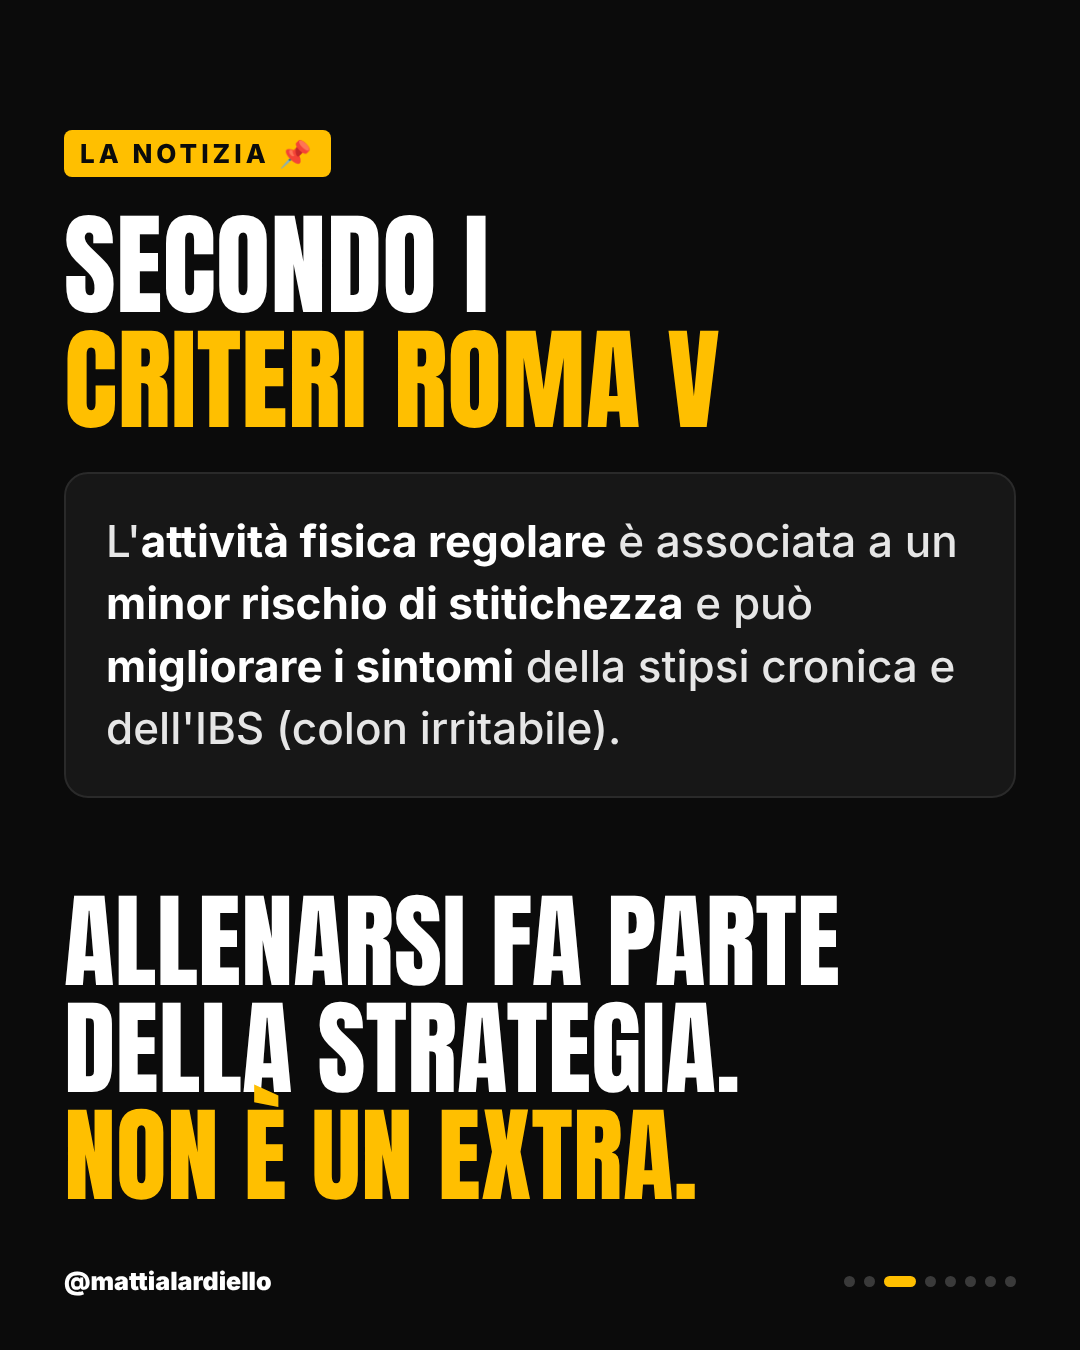
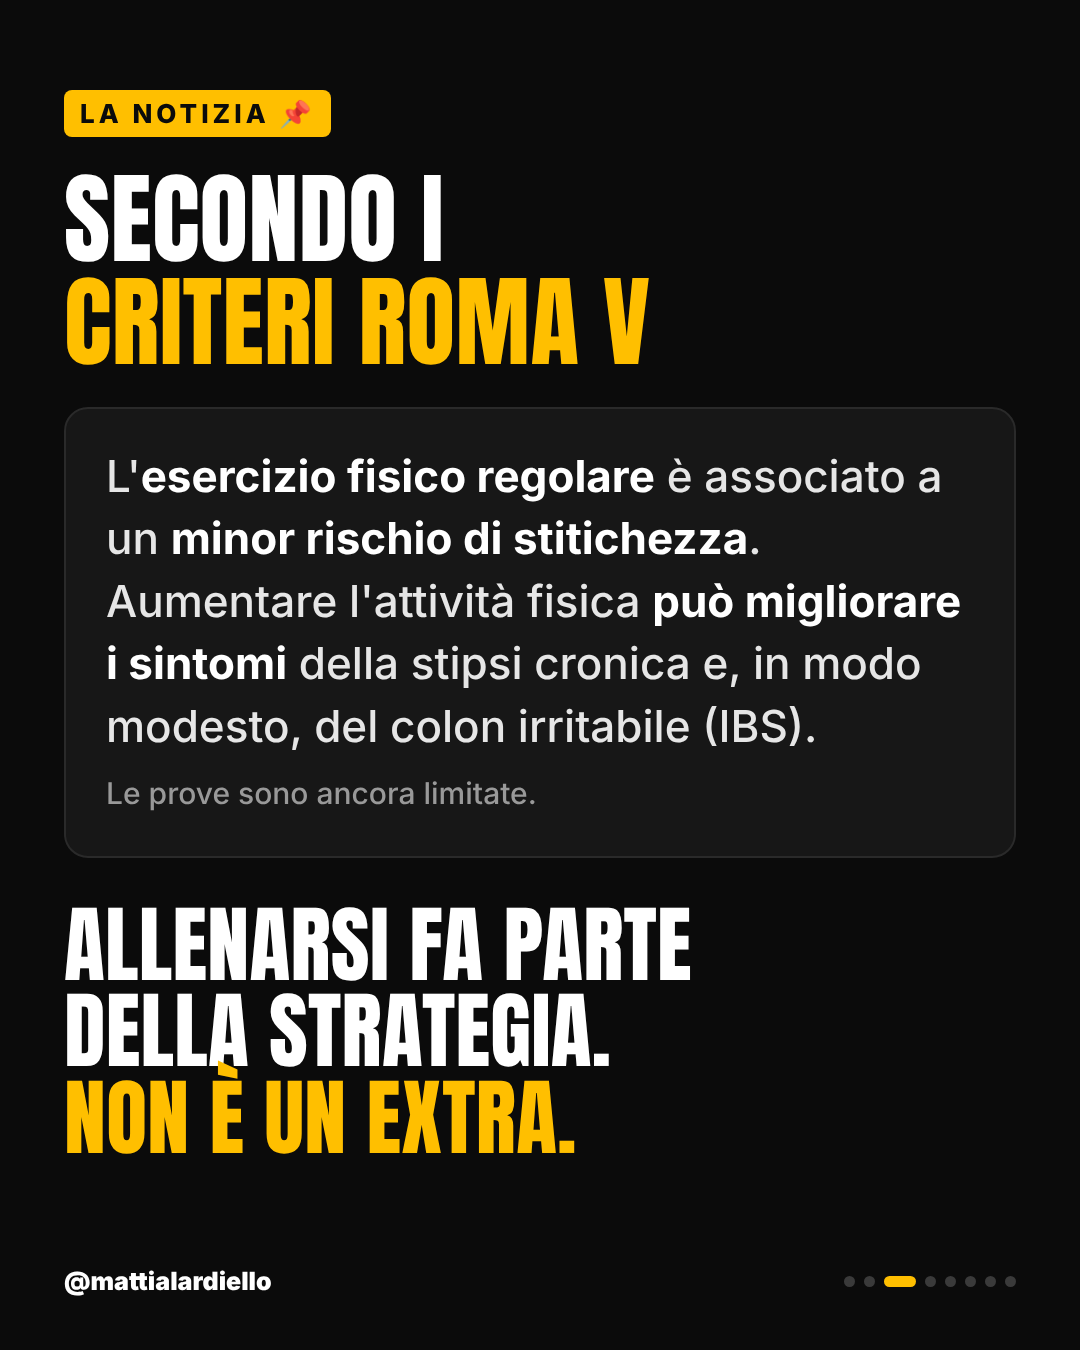
Intestino: testi allineati all'articolo Roma V
Claude-Session: https://claude.ai/code/session_014pNAwoV69TZpDWEUzr7pF6

Changed region(s): [[0.0611, 0.0622, 0.8861, 0.5911], [0.0611, 0.6533, 0.7944, 0.9022]]

diff --git a/contenuti-instagram/README.md b/contenuti-instagram/README.md
@@ -176,6 +176,6 @@ Nei DM / nel modulo indicare chiaramente che la consulenza è a pagamento, prima
 > Tu cosa fai già? Scrivimi nei commenti il numero dalla slide 6 👇
 > 📩 Scrivimi **INTESTINO** in DM e costruiamo un programma su misura.
 > 🔖 Salvalo e mandalo a chi ha sempre la pancia gonfia.
-> _Fonte: Corsetti M. et al., Rome V – Bowel Disorders, Gastroenterology 2026. Contenuto divulgativo: non sostituisce il parere del medico._
+> _Fonte: Corsetti M. et al., Rome V – Bowel Disorders, Gastroenterology 2026; indicazioni pratiche: linee guida OMS sull'attività fisica. Contenuto divulgativo: non sostituisce il parere del medico._
 >
 > #panciagonfia #gonfiore #intestinopigro #stitichezza #colonirritabile #ibs #asseintestinocervello #benessereintestinale #allenamentofemminile #nutrizionista #personaltrainerverona #mllab
